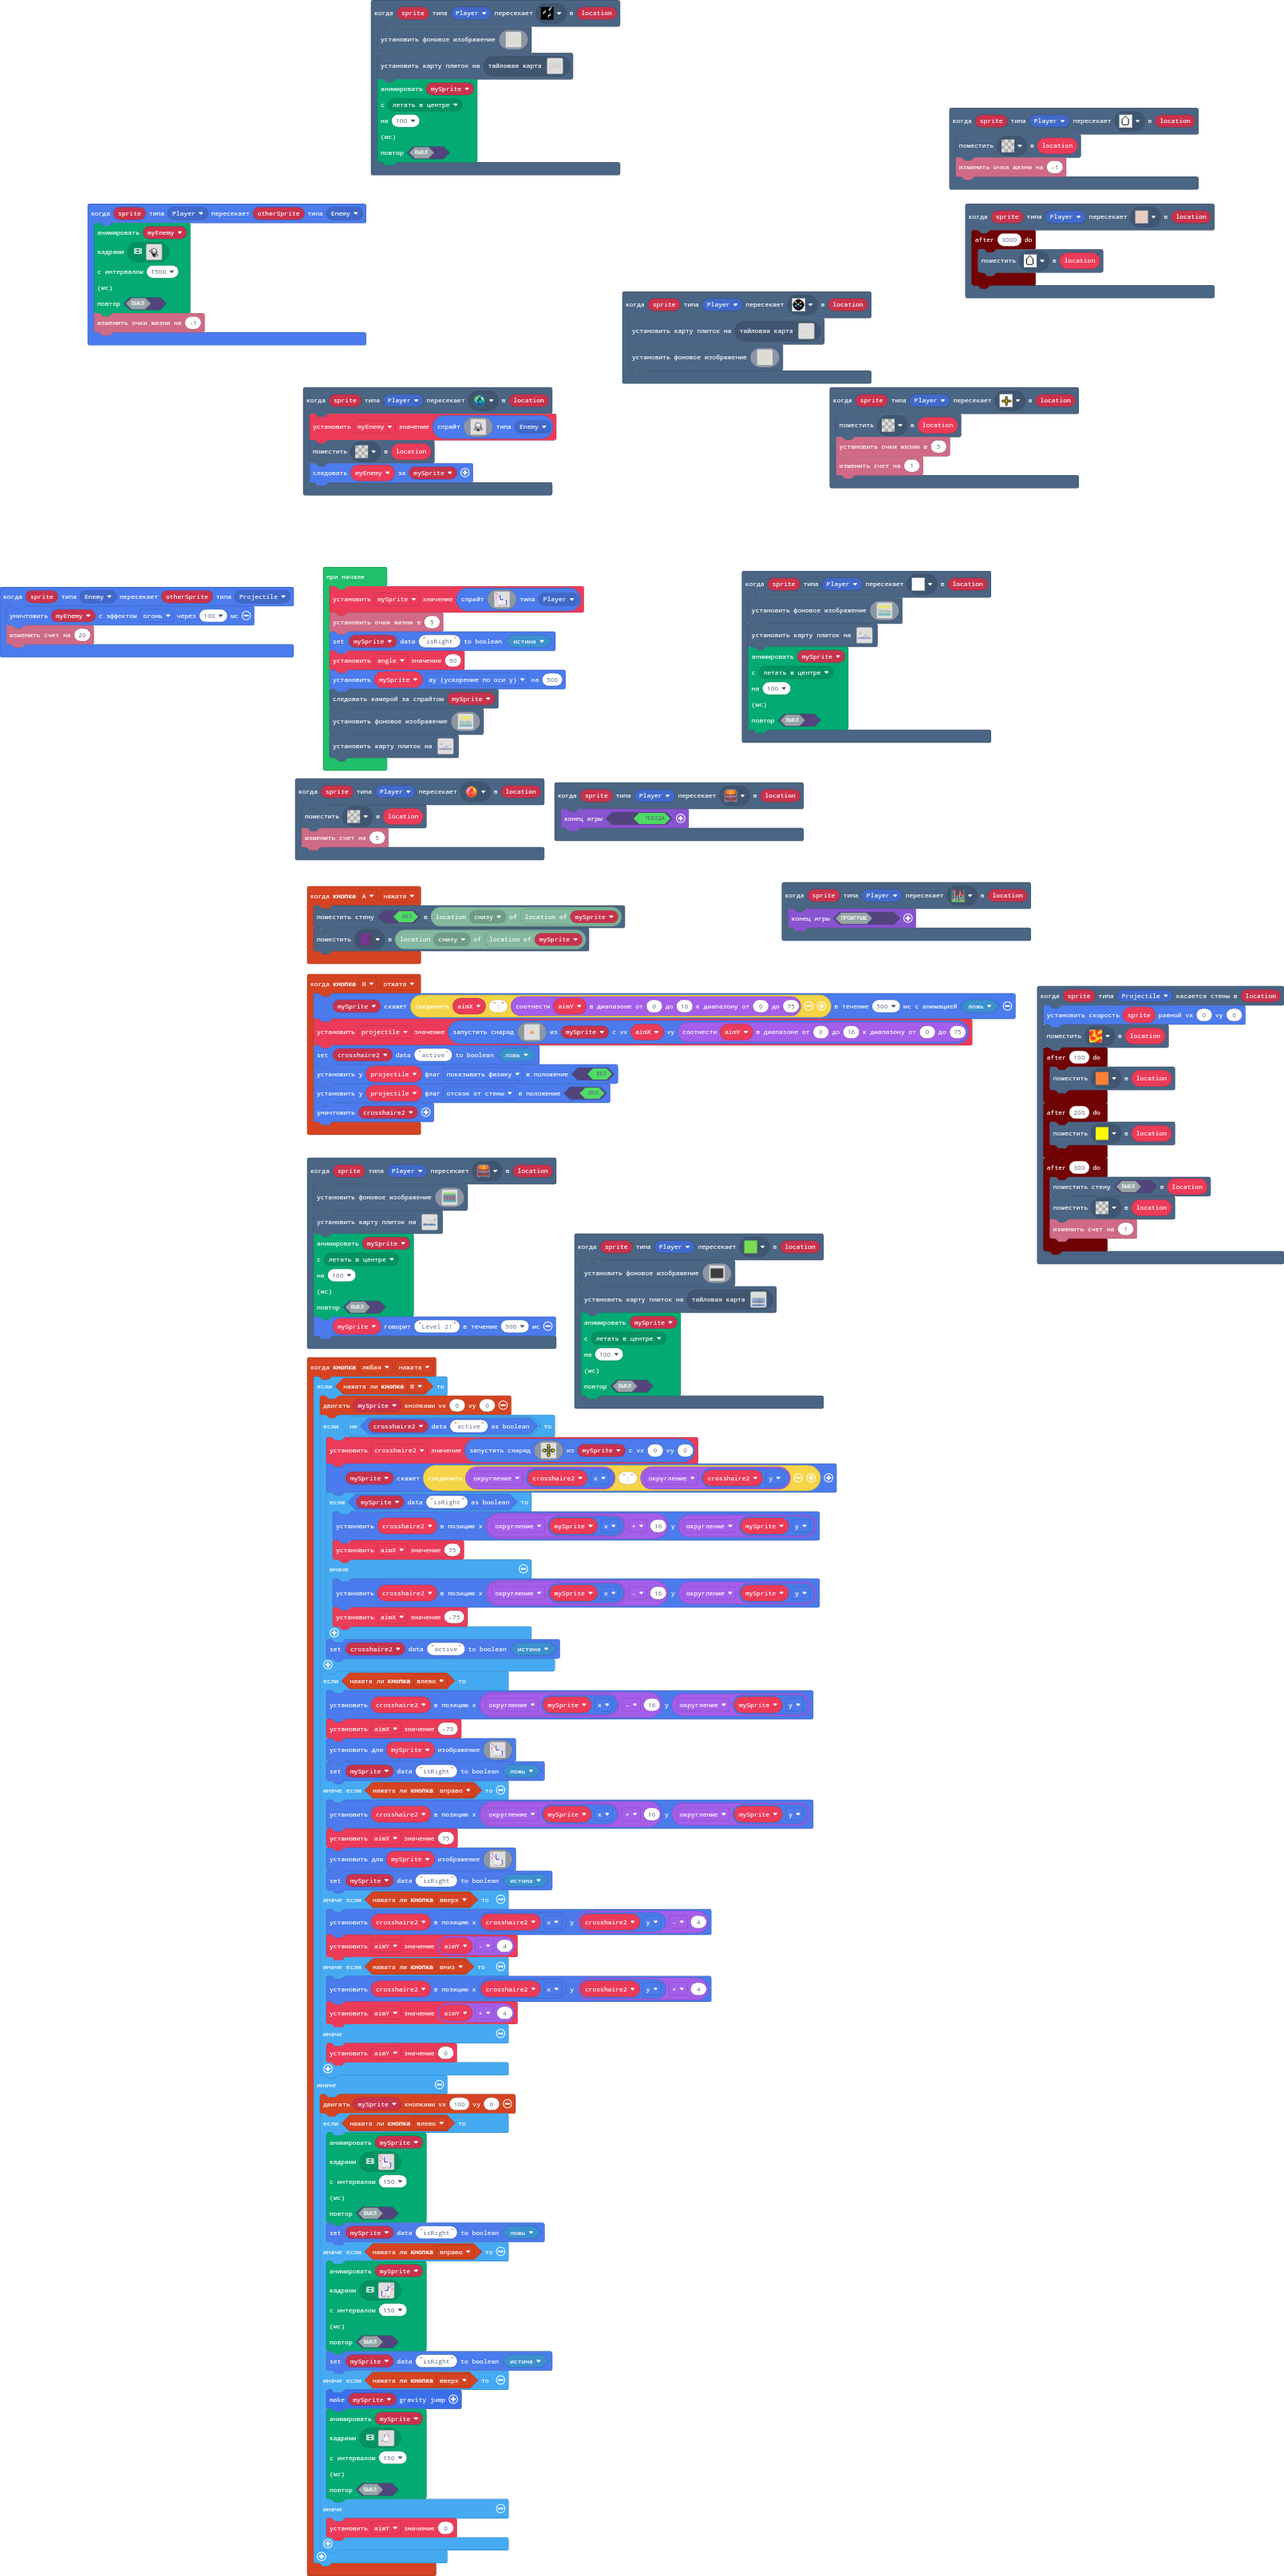
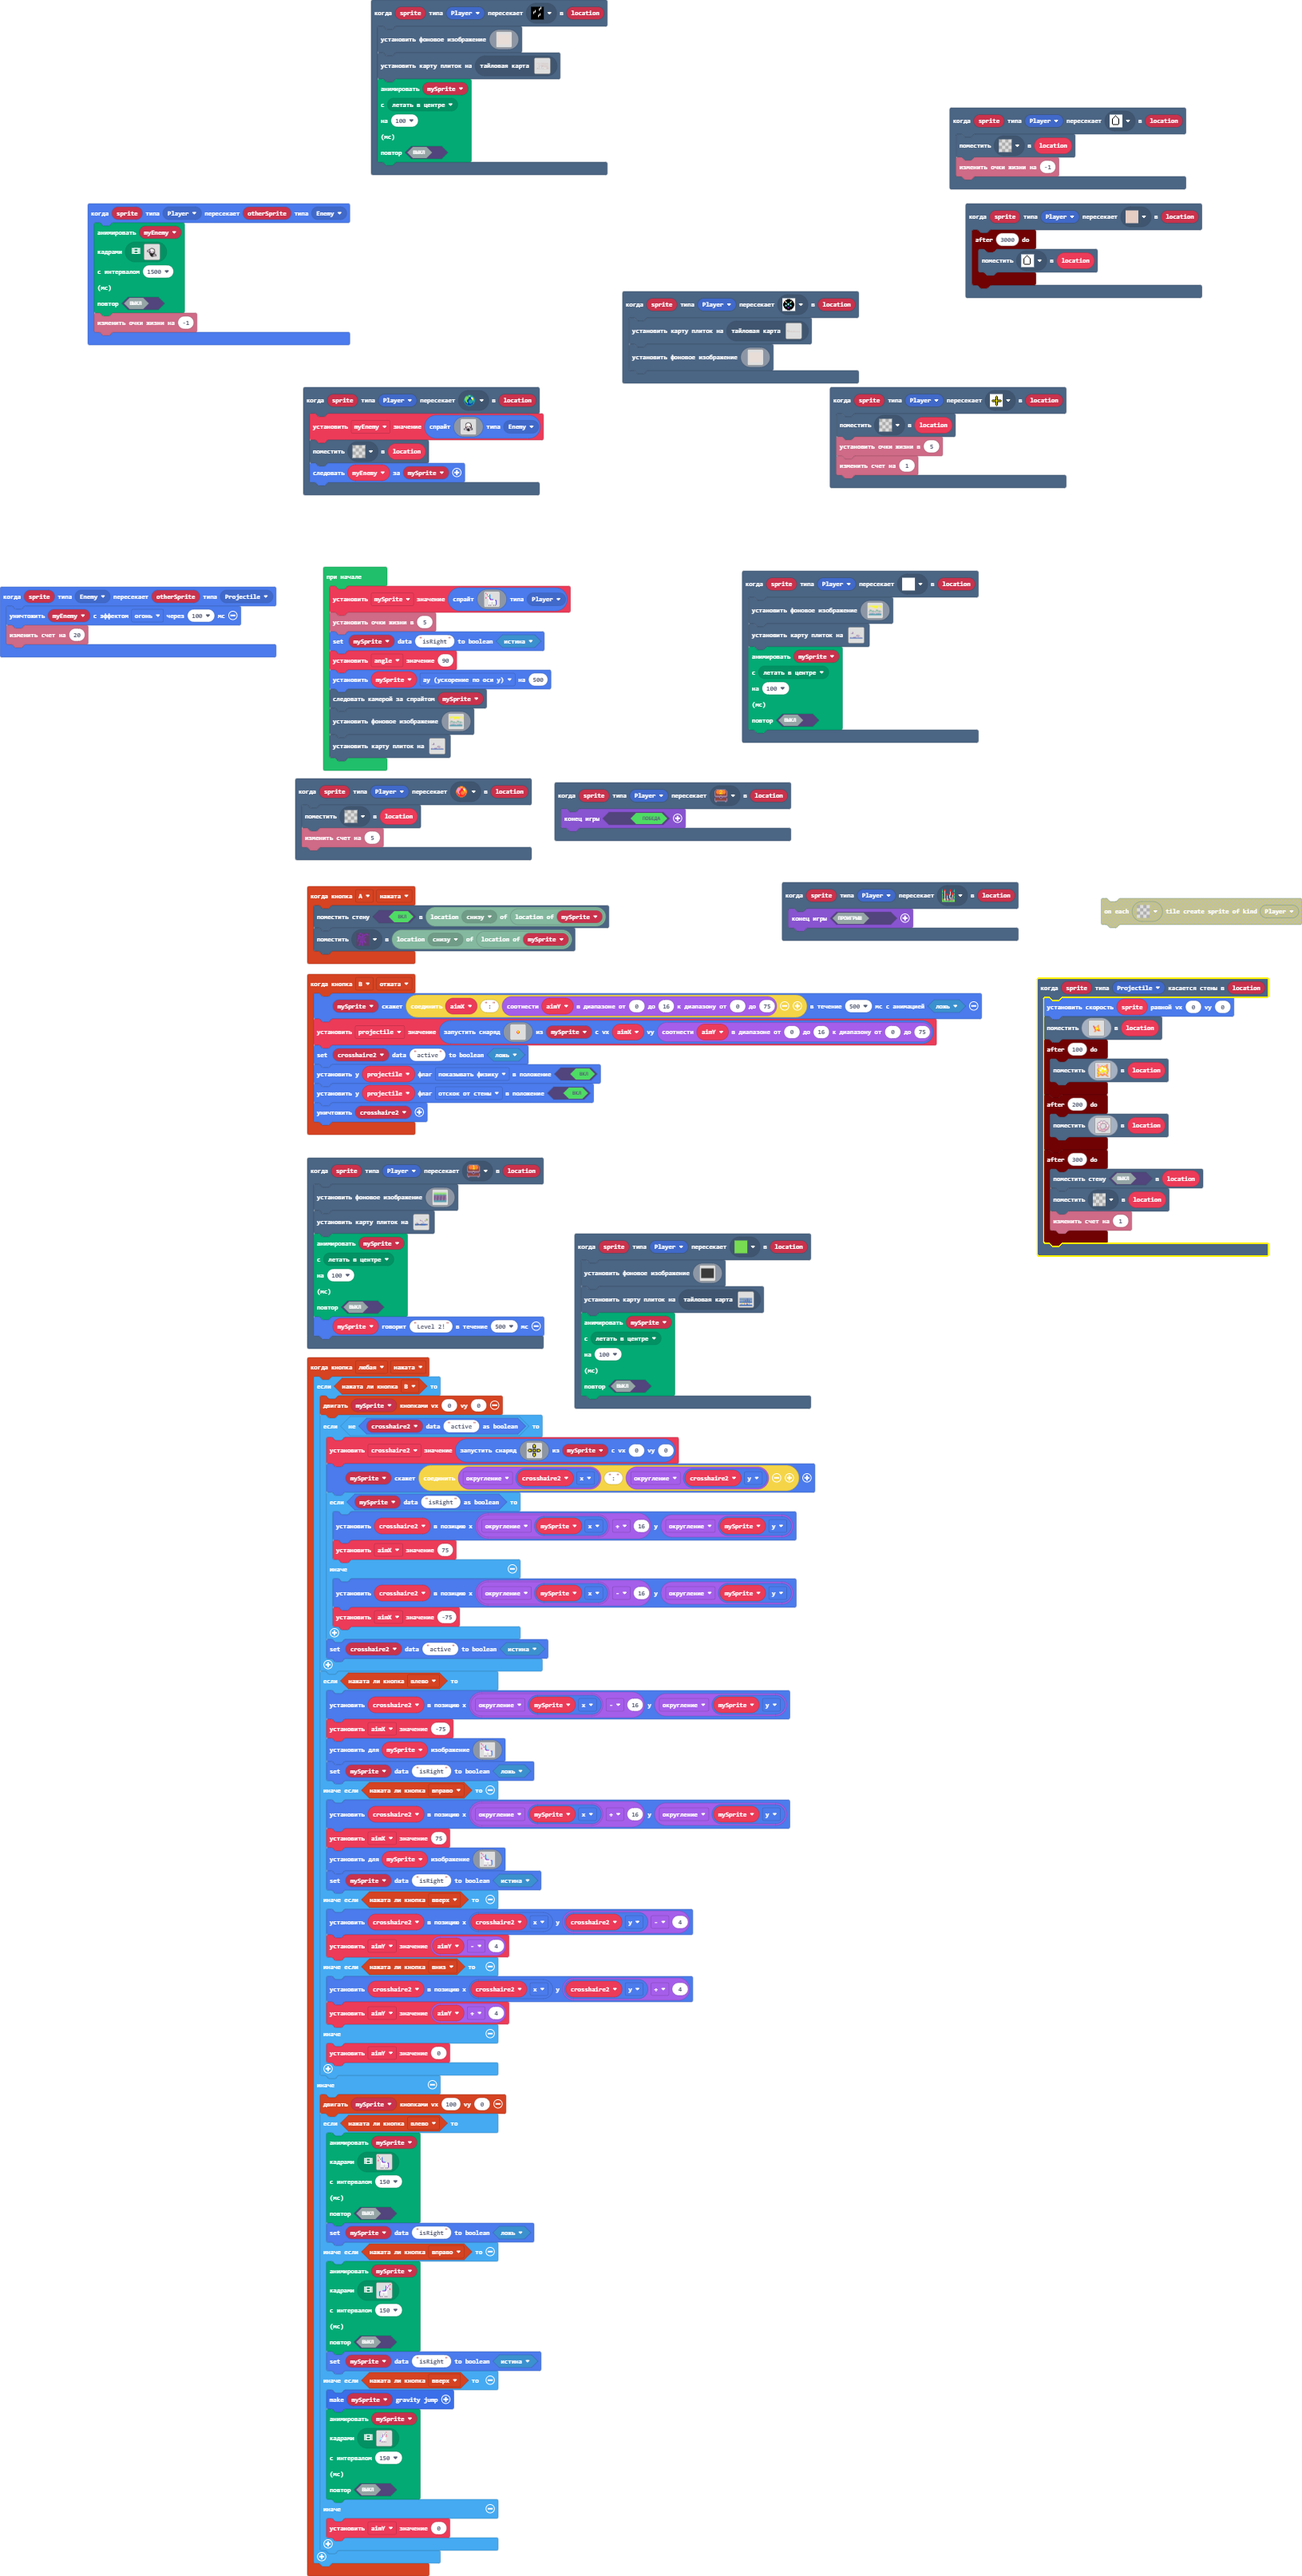
Заменяет изображение взрыва на корректные картинки

diff --git a/images.g.ts b/images.g.ts
@@ -249,63 +249,6 @@ ccccc66666666666666666666666666666666666ccccc66666666666666666666666666666666666
 6666666666666666666666666666666666666666666666666666666666666666666666666666666666666666666666666666666666666666666666666666666666666666666666666666666666666666
 6666666666666666666666666666666666666666666666666666666666666666666666666666666666666666666666666666666666666666666666666666666666666666666666666666666666666666
 `;
-            case "image3":
-            case "splash1":return img`
-. . . . . . . . . . . . . . . . 
-. . . . . . . . . . . . . . . . 
-. . . . . . . . . . . . . . . . 
-. . . . . . . . . . . . . . . . 
-. . . . . . . . . . 4 . . . . . 
-. . . . 2 . . . . 4 4 . . . . . 
-. . . . 2 4 . . 4 5 4 . . . . . 
-. . . . . 2 4 d 5 5 4 . . . . . 
-. . . . . 2 5 5 5 5 4 . . . . . 
-. . . . . . 2 5 5 5 5 4 . . . . 
-. . . . . . 2 5 4 2 4 4 . . . . 
-. . . . . . 4 4 . . 2 4 4 . . . 
-. . . . . 4 4 . . . . . . . . . 
-. . . . . . . . . . . . . . . . 
-. . . . . . . . . . . . . . . . 
-. . . . . . . . . . . . . . . . 
-`;
-            case "image4":
-            case "splash2":return img`
-. 3 . . . . . . . . . . . 4 . . 
-. 3 3 . . . . . . . . . 4 4 . . 
-. 3 d 3 . . 4 4 . . 4 4 d 4 . . 
-. . 3 5 3 4 5 5 4 4 d d 4 4 . . 
-. . 3 d 5 d 1 1 d 5 5 d 4 4 . . 
-. . 4 5 5 1 1 1 1 5 1 1 5 4 . . 
-. 4 5 5 5 5 1 1 5 1 1 1 d 4 4 . 
-. 4 d 5 1 1 5 5 5 1 1 1 5 5 4 . 
-. 4 4 5 1 1 5 5 5 5 5 d 5 5 4 . 
-. . 4 3 d 5 5 5 d 5 5 d d d 4 . 
-. 4 5 5 d 5 5 5 d d d 5 5 4 . . 
-. 4 5 5 d 3 5 d d 3 d 5 5 4 . . 
-. 4 4 d d 4 d d d 4 3 d d 4 . . 
-. . 4 5 4 4 4 4 4 4 4 4 4 . . . 
-. 4 5 4 . . 4 4 4 . . . 4 4 . . 
-. 4 4 . . . . . . . . . . 4 4 . 
-`;
-            case "image5":
-            case "splash3":return img`
-. . . . . . . . . . . . . . . . 
-. . . . . . . . . . . . . . . . 
-. . . . . b b . b b b . . . . . 
-. . . . b 1 1 b 1 1 1 b . . . . 
-. . b b 3 1 1 d d 1 d d b b . . 
-. b 1 1 d d b b b b b 1 1 b . . 
-. b 1 1 1 b . . . . . b d d b . 
-. . 3 d d b . . . . . b d 1 1 b 
-. b 1 d 3 . . . . . . . b 1 1 b 
-. b 1 1 b . . . . . . b b 1 d b 
-. b 1 d b . . . . . . b d 3 d b 
-. b b d d b . . . . b d d d b . 
-. b d d d d b . b b 3 d d 3 b . 
-. . b d d 3 3 b d 3 3 b b b . . 
-. . . b b b d d d d d b . . . . 
-. . . . . . b b b b b . . . . . 
-`;
             case "image2":
             case "blank":return img`
 . . . . . . . f f . . . . . . . 
@@ -405,6 +348,63 @@ f 5 5 5 f . f 5 5 f . f 5 5 5 f
 . . . . . . . . . . . . . . . . 
 . . . . . . . . . . . . . . . . 
 . . . . . . . . . . . . . . . . 
+`;
+            case "image3":
+            case "splash1":return img`
+. . . . . . . . . . . . . . . . 
+. . . . . . . . . . . . . . . . 
+. . . . . . . . . . . . . . . . 
+. . . . . . . . . . . . . . . . 
+. . . . . . . . . . 4 . . . . . 
+. . . . 2 . . . . 4 4 . . . . . 
+. . . . 2 4 . . 4 5 4 . . . . . 
+. . . . . 2 4 d 5 5 4 . . . . . 
+. . . . . 2 5 5 5 5 4 . . . . . 
+. . . . . . 2 5 5 5 5 4 . . . . 
+. . . . . . 2 5 4 2 4 4 . . . . 
+. . . . . . 4 4 . . 2 4 4 . . . 
+. . . . . 4 4 . . . . . . . . . 
+. . . . . . . . . . . . . . . . 
+. . . . . . . . . . . . . . . . 
+. . . . . . . . . . . . . . . . 
+`;
+            case "image4":
+            case "splash2":return img`
+. 3 . . . . . . . . . . . 4 . . 
+. 3 3 . . . . . . . . . 4 4 . . 
+. 3 d 3 . . 4 4 . . 4 4 d 4 . . 
+. . 3 5 3 4 5 5 4 4 d d 4 4 . . 
+. . 3 d 5 d 1 1 d 5 5 d 4 4 . . 
+. . 4 5 5 1 1 1 1 5 1 1 5 4 . . 
+. 4 5 5 5 5 1 1 5 1 1 1 d 4 4 . 
+. 4 d 5 1 1 5 5 5 1 1 1 5 5 4 . 
+. 4 4 5 1 1 5 5 5 5 5 d 5 5 4 . 
+. . 4 3 d 5 5 5 d 5 5 d d d 4 . 
+. 4 5 5 d 5 5 5 d d d 5 5 4 . . 
+. 4 5 5 d 3 5 d d 3 d 5 5 4 . . 
+. 4 4 d d 4 d d d 4 3 d d 4 . . 
+. . 4 5 4 4 4 4 4 4 4 4 4 . . . 
+. 4 5 4 . . 4 4 4 . . . 4 4 . . 
+. 4 4 . . . . . . . . . . 4 4 . 
+`;
+            case "image5":
+            case "splash3":return img`
+. . . . . . . . . . . . . . . . 
+. . . . . . . . . . . . . . . . 
+. . . . . b b . b b b . . . . . 
+. . . . b 1 1 b 1 1 1 b . . . . 
+. . b b 3 1 1 d d 1 d d b b . . 
+. b 1 1 d d b b b b b 1 1 b . . 
+. b 1 1 1 b . . . . . b d d b . 
+. . 3 d d b . . . . . b d 1 1 b 
+. b 1 d 3 . . . . . . . b 1 1 b 
+. b 1 1 b . . . . . . b b 1 d b 
+. b 1 d b . . . . . . b d 3 d b 
+. b b d d b . . . . b d d d b . 
+. b d d d d b . b b 3 d d 3 b . 
+. . b d d 3 3 b d 3 3 b b b . . 
+. . . b b b d d d d d b . . . . 
+. . . . . . b b b b b . . . . . 
 `;
         }
         return null;

diff --git a/main.ts b/main.ts
@@ -541,12 +541,12 @@ scene.onOverlapTile(SpriteKind.Player, assets.tile`chest1`, function (sprite, lo
 })
 scene.onHitWall(SpriteKind.Projectile, function (sprite, location) {
     sprite.setVelocity(0, 0)
-    tiles.setTileAt(location, assets.tile`myTile16`)
+    tiles.setTileAt(location, assets.image`splash1`)
     timer.after(100, function () {
-        tiles.setTileAt(location, assets.tile`myTile10`)
+        tiles.setTileAt(location, assets.image`splash2`)
     })
     timer.after(200, function () {
-        tiles.setTileAt(location, assets.tile`myTile11`)
+        tiles.setTileAt(location, assets.image`splash3`)
     })
     timer.after(300, function () {
         tiles.setWallAt(location, false)
